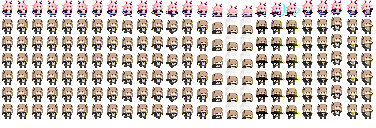
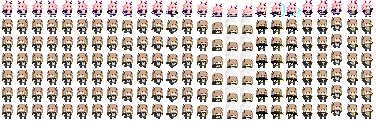
스프라이트 업글

Changed region(s): [[0.7606, 0.2812, 0.8191, 0.7812], [0.7606, 0.8125, 0.8191, 0.9375], [0.7606, 0.125, 0.8191, 0.25]]

diff --git a/core/src/main/java/com/gfpixel/gfpixeldungeon/sprites/HeroSprite.java b/core/src/main/java/com/gfpixel/gfpixeldungeon/sprites/HeroSprite.java
@@ -73,8 +73,8 @@ public class HeroSprite extends CharSprite {
 		die = new Animation( 20, false );
 		die.frames( film, 12, 13, 14, 15 );
 		
-		attack = new Animation( 30, false );
-		attack.frames( film, 17, 18, 17, 19, 0 );
+		attack = new Animation( 20, false );
+		attack.frames( film, 19, 18, 17, 18, 17, 19 );
 		
 		zap = attack.clone();
 		
